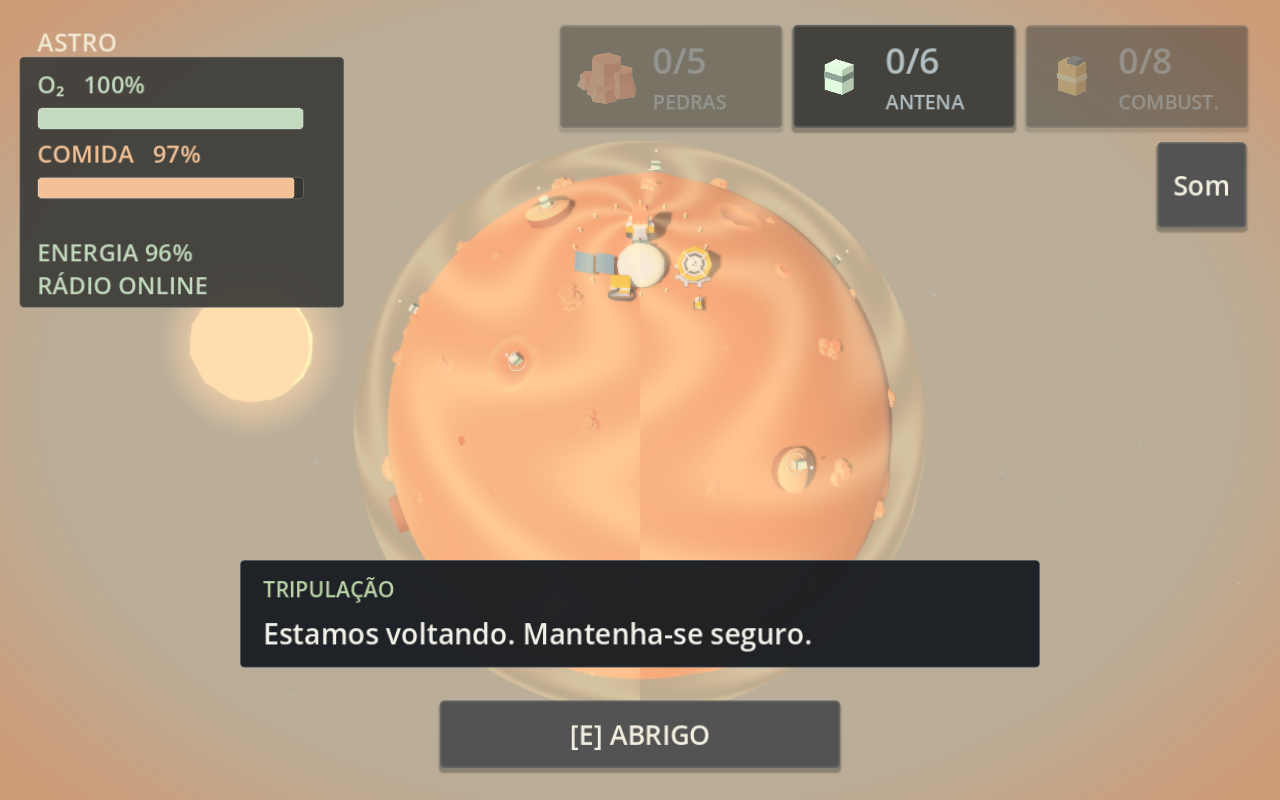
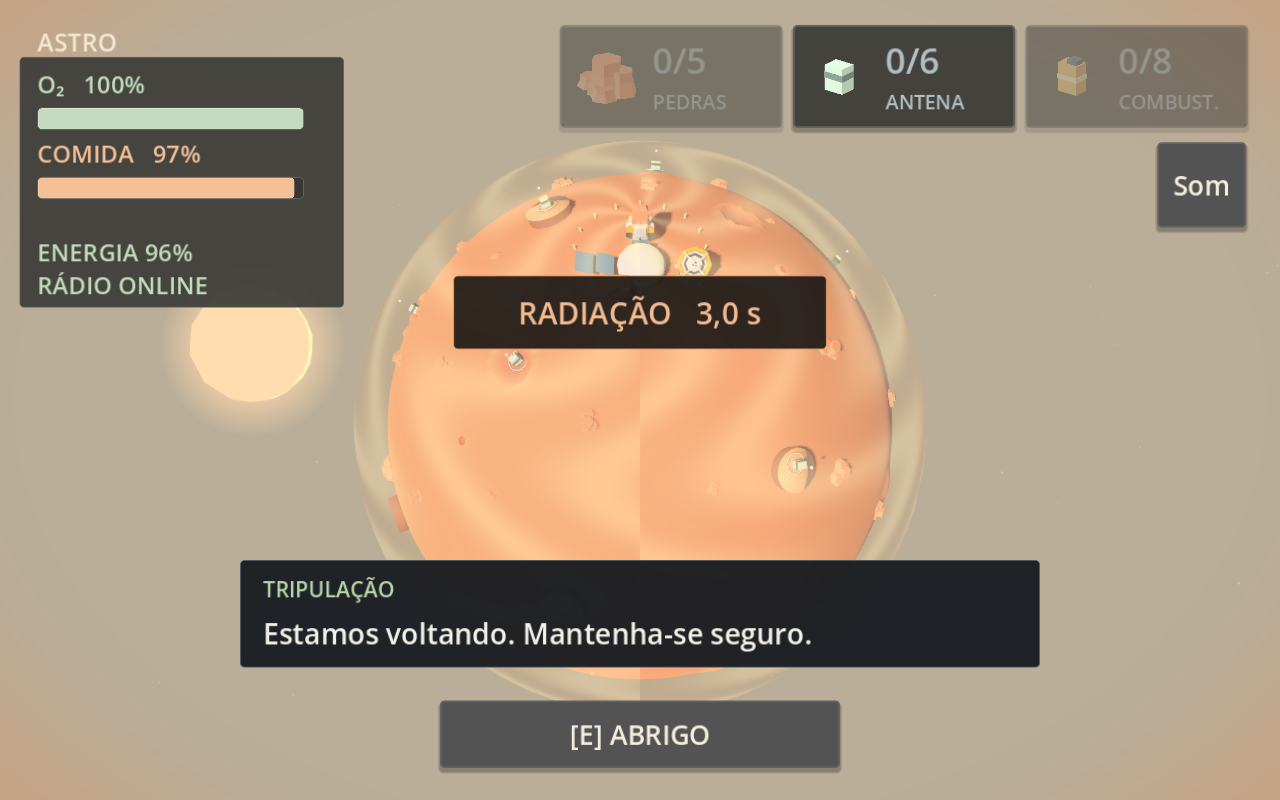
Add survival countdowns, five-second radiation resistance and a quieter music scale

Changed region(s): [[0.3438, 0.3438, 0.6562, 0.4375]]

diff --git a/docs/FEATURE_VALIDATION.md b/docs/FEATURE_VALIDATION.md
@@ -29,7 +29,9 @@ Importação e exportação Web concluídas sem erros. `tests/web_smoke.cjs` abr
 
 ## Evidências e limites
 
-Fluxo de missão: `tests/mission_flow.gd` verifica fechamento automático da antena, bloqueio da interação enquanto estável e reativação após falha. Confere que o rádio permanece silencioso antes da janela de 4 s, interrompe outra transmissão no momento correto, não repete o aviso e respeita conexão offline. Também verifica que o efeito de exposição cresce e desaparece dentro do abrigo. `tests/menu_return.gd` acompanha a troca real da cena após a cutscene final e valida menu visível, controles inativos e reservas/inventário reiniciados. O shader de exposição foi inspecionado em `solar-preview.png`; afeta a imagem do mundo, deixando o HUD nítido.
+Fluxo de missão: `tests/mission_flow.gd` verifica fechamento automático da antena, bloqueio da interação enquanto estável e reativação após falha. Confere que o rádio permanece silencioso antes da janela de 5 s, interrompe outra transmissão no momento correto, não repete o aviso e respeita conexão offline. Também verifica que o efeito de exposição cresce e desaparece dentro do abrigo. `tests/menu_return.gd` acompanha a troca real da cena após a cutscene final e valida menu visível, controles inativos e reservas/inventário reiniciados. O shader de exposição foi inspecionado em `solar-preview.png`; afeta a imagem do mundo, deixando o HUD nítido.
+
+Contagens regressivas: `tests/countdowns_audio.gd` cobre resistência solar de 5 s, três contagens simultâneas, tempo da reserva mais tolerância final de O₂/comida, limpeza após abrigo/reabastecimento e escala musical 100%=0,8 / 50%=0,4. O smoke test verifica a derrota após 5 s de exposição contínua. Capturas `solar-preview.png`, `critical-preview.png` e `settings-preview.png` mostram os timers e o novo padrão de volume.
 
 Ajuste de sobrevivência contínua: `tests/survival_tuning.gd` cobre menu sem painel/frase, botão de início quente, ganhos musicais reduzidos, Sol maior a 180 unidades/lua menor, explosão e loop solar audíveis nos dois ambientes até o fim do evento, avisos de O₂/comida sem rádio e ausência de pausa por Esc. Os testes de minigame/configurações agora exigem que comida e temporizadores continuem avançando. O guia anterior ao início permanece congelado. `critical-preview.png` mostra o aviso local combinado de recursos.
 
@@ -41,7 +43,7 @@ O menu 2D centralizado e seus botões maiores foram inspecionados em desktop e p
 
 Menu e descoberta: `tests/radio_resources.gd` verifica 6 peças de antena antes da transmissão, 5 pedras/8 combustíveis depois dela, bloqueio de coleta sem sinal, itens ocultos após transição interior/exterior e preservação do inventário. Também cobre volumes independentes, zero silencioso, sobrevivência avançando nas configurações e troca entre os dois MP3 em loop. O teste web abre a engrenagem, ajusta música e percorre o início em desktop/toque. No desktop, recarrega a página e confere visualmente o ganho preservado em `web-desktop-settings-restored.png`. `menu-preview.png` e `settings-preview.png` mostram a nova interface; a origem e o prompt da arte estão em `MENU_ART.md`.
 
-A atualização de decolagem cobre névoa planetária de 12 s, morte após 3 s de exposição contínua, proteção e reinício da exposição dentro do abrigo, pulso de energia baixa, sons distintos de coleta/derrota e escrita progressiva. A automação percorre as duas páginas do guia com a simulação congelada e verifica vídeo final antes do retorno automático ao menu. Capturas `solar-preview.png`, `briefing2-preview.png`, `outro-preview.png` e `outro-storyboard.png` registram os novos visuais. O teste web percorre ambos os slides em desktop e toque emulado.
+A atualização de decolagem cobre névoa planetária de 12 s, morte após 5 s de exposição contínua, proteção e reinício da exposição dentro do abrigo, pulso de energia baixa, sons distintos de coleta/derrota e escrita progressiva. A automação percorre as duas páginas do guia com a simulação congelada e verifica vídeo final antes do retorno automático ao menu. Capturas `solar-preview.png`, `briefing2-preview.png`, `outro-preview.png` e `outro-storyboard.png` registram os novos visuais. O teste web percorre ambos os slides em desktop e toque emulado.
 
 Capturas `web-desktop-*.png` e `web-mobile-*.png` documentam menu, vídeo, exploração, base, painel e movimento. `intro-storyboard.png` mostra um quadro da cutscene.
 

diff --git a/README.md b/README.md
@@ -34,9 +34,9 @@ As mensagens da tripulação se limitam ao início, confirmação do sinal e pou
 
 Oxigênio e alimento exigem viagens de reabastecimento: a base com energia repõe O₂; a estufa oferece refeições com E e não protege da radiação. A derrota encerra a expedição e exige recomeçar do zero.
 
-As reservas aumentaram 5%: O₂ dura cerca de **31 segundos** e comida cerca de **58 segundos**. Internamente vão até 105 unidades; a interface continua mostrando 100% quando cheias. Barras ficam vermelhas e pulsam quando baixas; avisos locais na tela aparecem em 25% e 12%, mesmo sem rádio, e voltam a funcionar após reabastecer. Depois de zerar, há dois segundos de tolerância. A base energizada repõe O₂ em aproximadamente 4,2 segundos.
+As reservas aumentaram 5%: O₂ dura cerca de **31 segundos** e comida cerca de **58 segundos**. Internamente vão até 105 unidades; a interface continua mostrando 100% quando cheias. Barras ficam vermelhas e pulsam quando baixas; avisos locais na tela aparecem em 25% e 12%, mesmo sem rádio, e voltam a funcionar após reabastecer. A partir de 12%, contagens regressivas mostram o tempo restante até a derrota por fome ou falta de O₂, incluindo os dois segundos de tolerância após zerar. A recuperação de O₂ no abrigo energizado remove sua contagem; reabastecer a comida remove a de fome.
 
-Após 100 segundos, o céu clareia durante dez segundos de aviso, seguidos de uma névoa que cobre o planeta inteiro por 12 segundos. A antena conectada avisa pelo rádio somente **4 segundos antes da névoa**, com prioridade sobre transmissões em andamento. Uma explosão com eco marca o início da radiação, seguida de ruído contínuo até o fim, também audível dentro do abrigo. O Sol visual é maior e fica a 180 unidades do centro do planeta; a lua ficou 25% menor. **Só o interior protege**. Três segundos de exposição contínua causam derrota; entrar no abrigo zera a exposição. Fora dele, a imagem recebe desfoque sutil e bordas alaranjadas que avançam com a exposição, preservando a nitidez da interface.
+Após 100 segundos, o céu clareia durante dez segundos de aviso, seguidos de uma névoa que cobre o planeta inteiro por 12 segundos. A antena conectada avisa pelo rádio somente **5 segundos antes da névoa**, com prioridade sobre transmissões em andamento. Uma explosão com eco marca o início da radiação, seguida de ruído contínuo até o fim, também audível dentro do abrigo. O Sol visual é maior e fica a 180 unidades do centro do planeta; a lua ficou 25% menor. **Só o interior protege**. Cinco segundos de exposição contínua causam derrota; entrar no abrigo zera a exposição. Uma contagem mostra a resistência restante. Fora dele, a imagem recebe desfoque sutil e bordas alaranjadas que avançam com a exposição, preservando a nitidez da interface.
 
 O₂ e alimento ficam progressivamente vermelhos e pulsam suavemente quando baixos. Energia também pulsa em vermelho aos 30% ou menos. Um aviso de dois tons, diferente do sol, soa em 25% e 12%; na faixa crítica, pode repetir a cada oito segundos. Energia e desconexão têm sons próprios. Mensagens aparecem a 70 caracteres por segundo com digitação discreta. Coletas tocam notas ascendentes; derrota toca um acorde descendente. Os efeitos são sintetizados originalmente; as duas músicas de ambiente foram fornecidas pelo usuário e estão identificadas em [assets/audio/README.md](assets/audio/README.md). A arte do menu e seu prompt estão em [docs/MENU_ART.md](docs/MENU_ART.md).
 

diff --git a/docs/AUDIO.md b/docs/AUDIO.md
@@ -17,6 +17,8 @@ Os efeitos ficam em `scripts/event_audio.gd`, com geração determinística e ca
 
 O ganho nominal da música externa é 0,16 (antes 0,316) e o da base é 0,24. Durante radiação ativa, ambos recebem multiplicador 0,4; após o evento, o volume nominal retorna. A escolha de volume do jogador continua sendo respeitada.
 
+O controle Músicas usa uma escala reduzida: o novo 100% corresponde a ganho 0,8 do teto anterior; o padrão 50% corresponde a ganho 0,4. A interface salva a porcentagem lógica, evitando que 50% vire 40% no controle ao reabrir. Uma migração única aplica o novo padrão também aos perfis antigos; escolhas posteriores são preservadas. Os demais canais mantêm suas escalas.
+
 ## Correção da saída Web
 
 Músicas e efeitos usam explicitamente `AudioServer.PLAYBACK_TYPE_STREAM`, com os quatro canais definidos em `default_bus_layout.tres` antes da inicialização da cena. O caminho anterior de reprodução Sample, combinado com os canais criados em execução, indicava `playing` sem produzir sinal na saída Web. A documentação descreve a escolha entre [Sample e Stream](https://docs.godotengine.org/en/latest/tutorials/audio/audio_streams.html).
